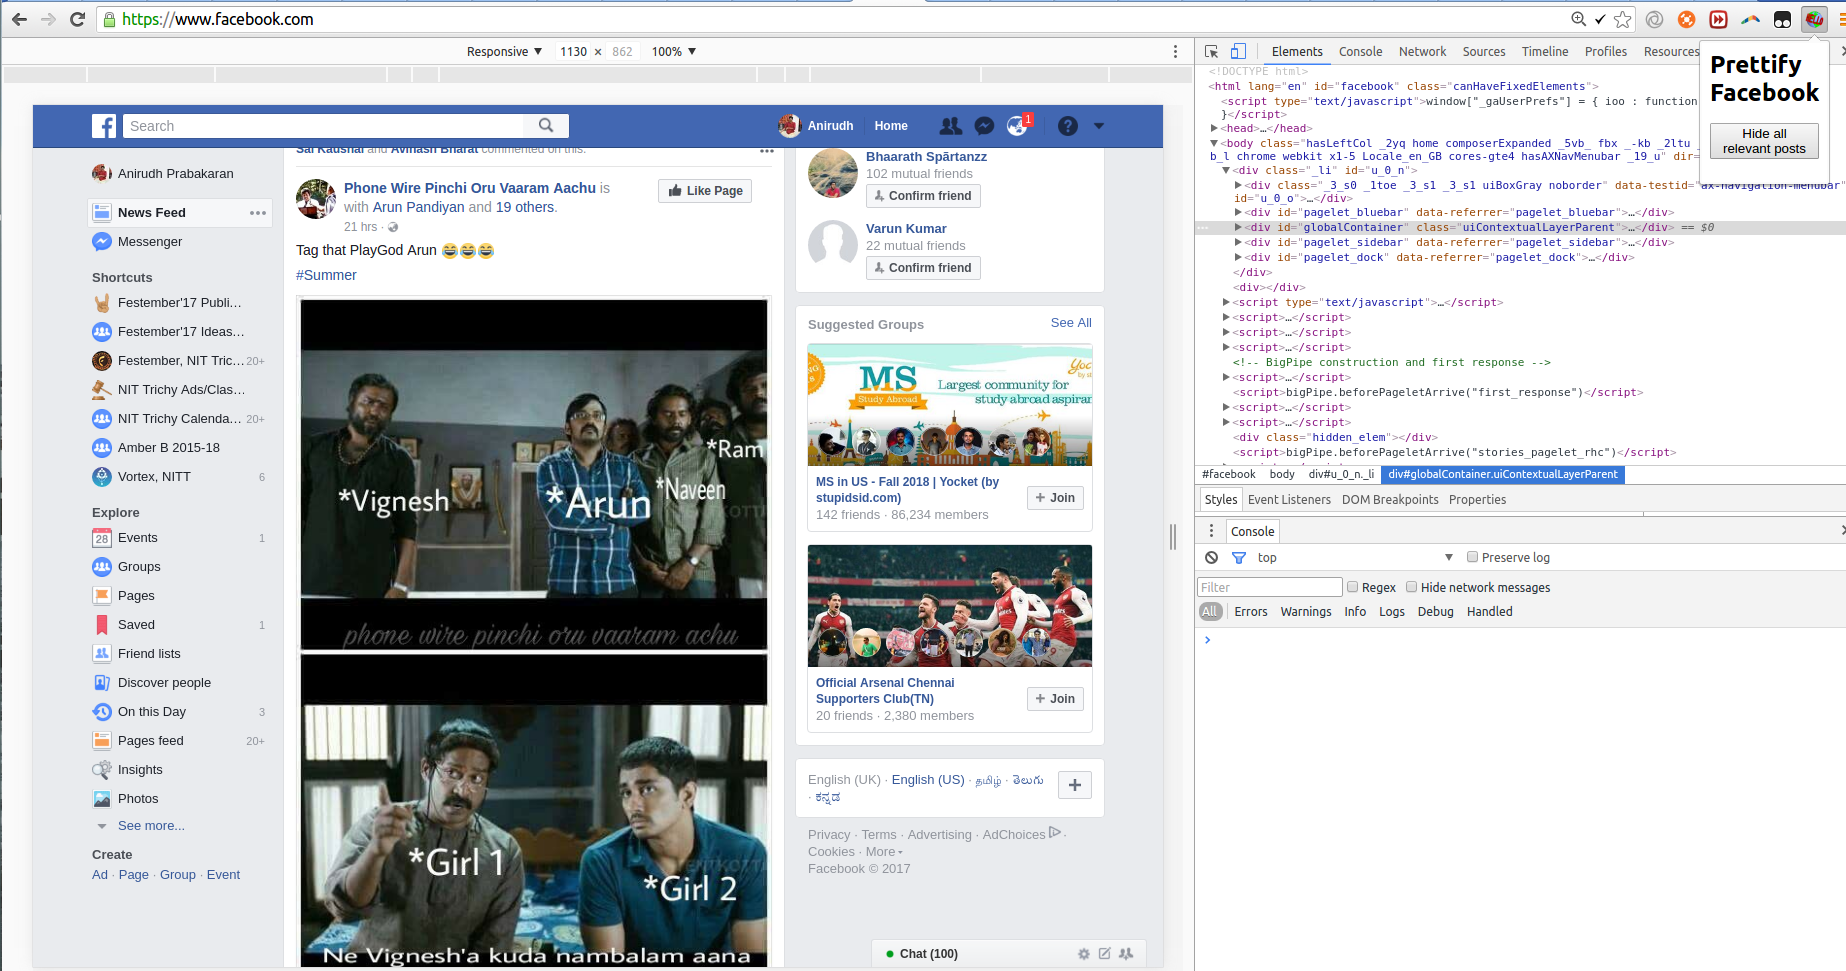
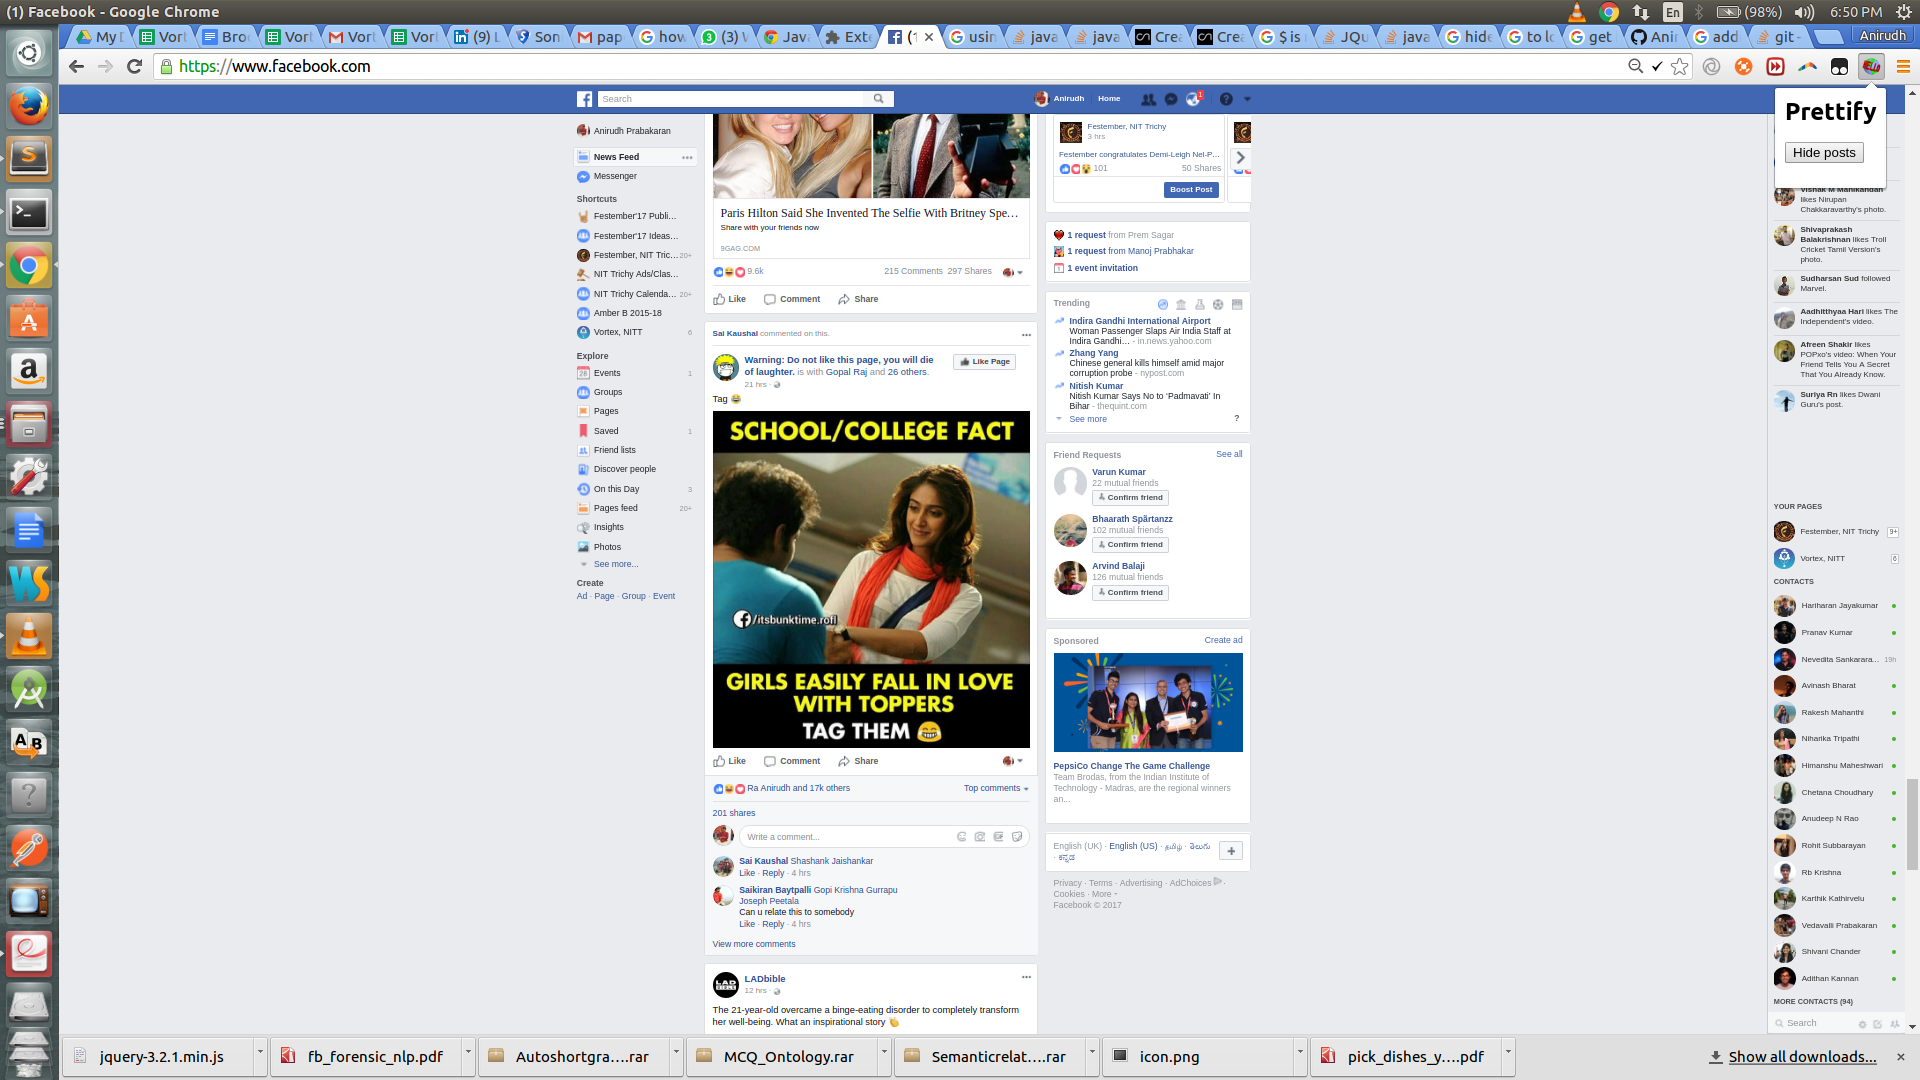
ss changed

diff --git a/popup.html b/popup.html
@@ -5,10 +5,10 @@
     <script type="text/javascript" src="popup.js"></script>
   </head>
   <body>
-    <h1>Prettify Facebook</h1>
+    <h1>Prettify</h1>
     <!-- <p> Enter Keywords seperated by a comma: </p>
     <input type="text" id="keywords" /> -->
-    <button id="hide">Hide all relevant posts</button>
+    <button id="hide">Hide posts</button>
     
   </body>
 </html>

diff --git a/popup.js b/popup.js
@@ -33,6 +33,7 @@
             {
               posts[i].parentElement.style.display = 'none';
               posts[i].parentElement.parentElement.style.display = 'none';
+              posts[i].parentElement.parentElement.parentElement.style.display = 'none';
             }
           }
 
